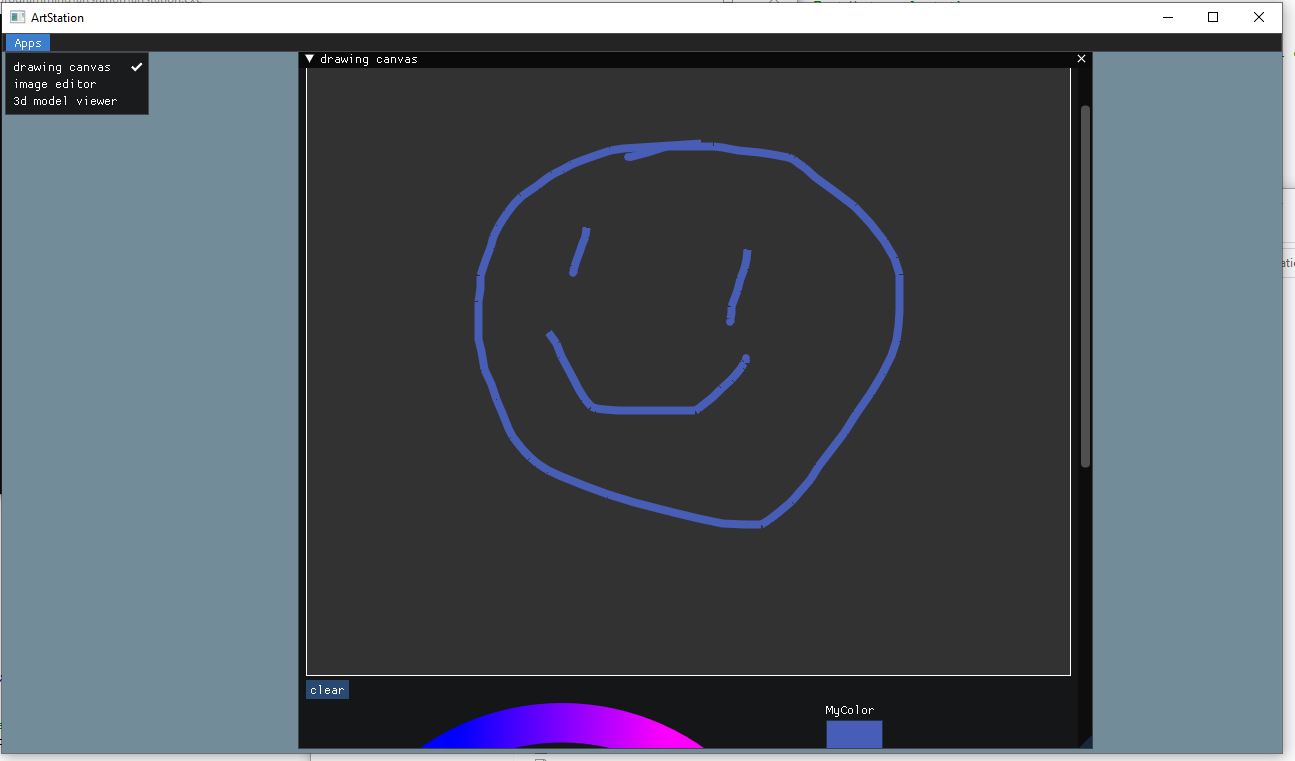
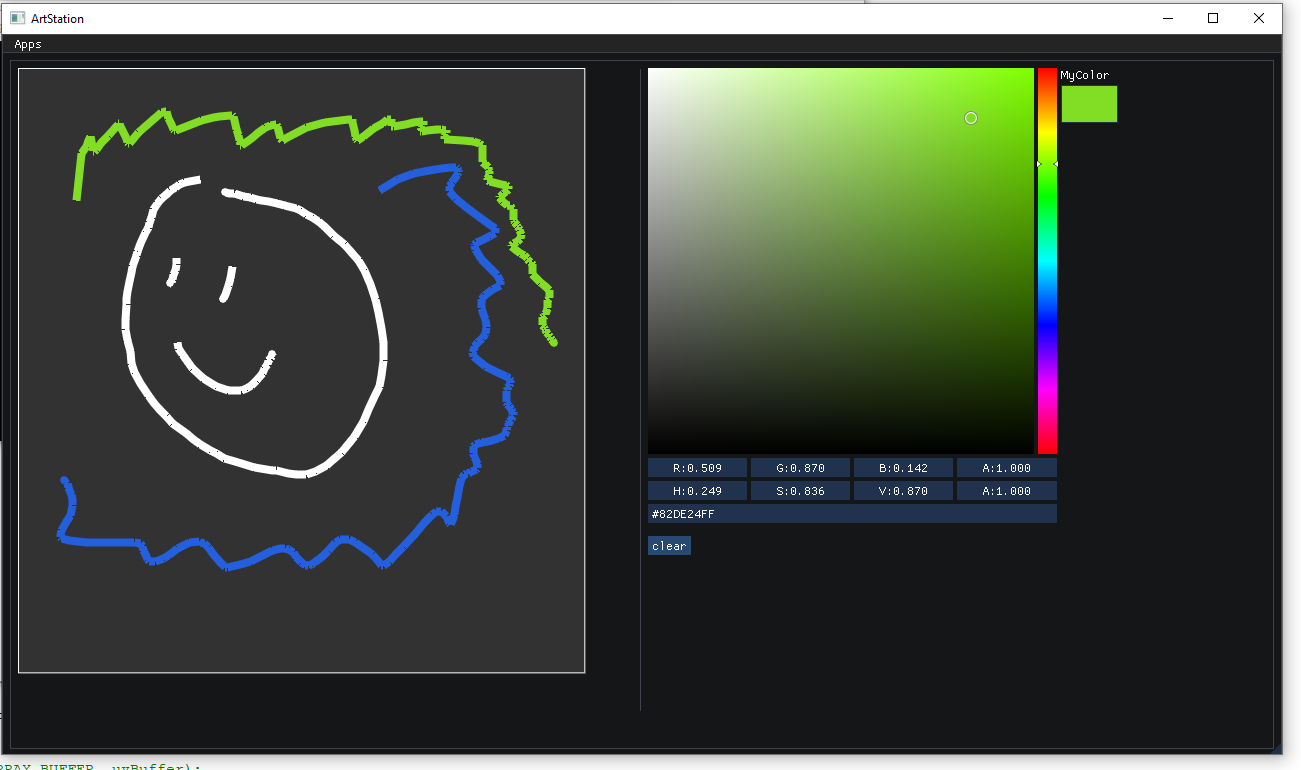
more edits. also fixed something with the offscreen buffer.

diff --git a/artstation.cpp b/artstation.cpp
@@ -183,7 +183,7 @@ void showDrawingCanvas(){
 	// show color wheel
 	ImGui::ColorPicker4("MyColor", (float*)&color, flags, ref_color ? &ref_color_v.x : NULL);
 	
-	ImGui::Dummy(ImVec2(0.0f, 5.0f));
+	ImGui::Dummy(ImVec2(0.0f, 5.0f)); // add some vertical spacing
 	
 	if(ImGui::Button("clear")){
 		canvasPoints.clear();
@@ -558,6 +558,9 @@ void setupOffscreenFramebuffer(GLuint* frameBuffer, GLuint* texture){
 	glBindRenderbuffer(GL_RENDERBUFFER, 0); // unbind after allocating storage
 	glFramebufferRenderbuffer(GL_FRAMEBUFFER, GL_DEPTH_ATTACHMENT, GL_RENDERBUFFER, depth);
 	
+	// unbind framebuffer now since we don't need it yet (we just needed to bind it to set it up)
+	glBindFramebuffer(GL_FRAMEBUFFER, 0);
+	
 	//GLenum drawBuffers[1] = {GL_COLOR_ATTACHMENT0};
 	//glDrawBuffers(1, drawBuffers);
 }
@@ -726,6 +729,8 @@ void show3dModelViewer(
 			toggleWireframe = !toggleWireframe; 
 		}
 		
+		ImGui::Dummy(ImVec2(0.0f, 5.0f)); // add some vertical spacing
+		
 		// control camera x movement
 		ImGui::Text("move along X: ");
 		ImGui::SameLine();
@@ -850,9 +855,9 @@ int main(int, char**)
 
     // Our state
     //bool show_demo_window = true;
-	bool showCanvasForDrawingFlag = false;
+	bool showCanvasForDrawingFlag = true;
 	bool showImageEditorFlag = false;
-	bool show3dModelViewerFlag = true;
+	bool show3dModelViewerFlag = false;
     ImVec4 clear_color = ImVec4(0.45f, 0.55f, 0.60f, 1.00f);
 	
 	// set up GLEW
@@ -938,6 +943,8 @@ int main(int, char**)
 			ImGui::EndMainMenuBar();
 		}
 		
+		ImGui::SetNextWindowSize(ImVec2(currSDLWidth, currSDLHeight*0.98f));
+		ImGui::SetNextWindowPos(ImVec2(0, 18));
 		ImGui::Begin("App", NULL, ImGuiWindowFlags_NoCollapse | ImGuiWindowFlags_NoMove | ImGuiWindowFlags_NoTitleBar);
 
         // 1. Show the big demo window (Most of the sample code is in ImGui::ShowDemoWindow()! You can browse its code to learn more about Dear ImGui!).
@@ -950,9 +957,6 @@ int main(int, char**)
 		//  - have a subwindow for drawing? brush examples?
 		// 	- docked windows?
 		//  - audio stuff too? :D
-		
-		//ImGui::SetNextWindowPos(ImVec2(0, 15));
-		//ImGui::SetNextWindowSize(ImVec2(width, height));
 		
 		if(showCanvasForDrawingFlag){
 			showDrawingCanvas();
